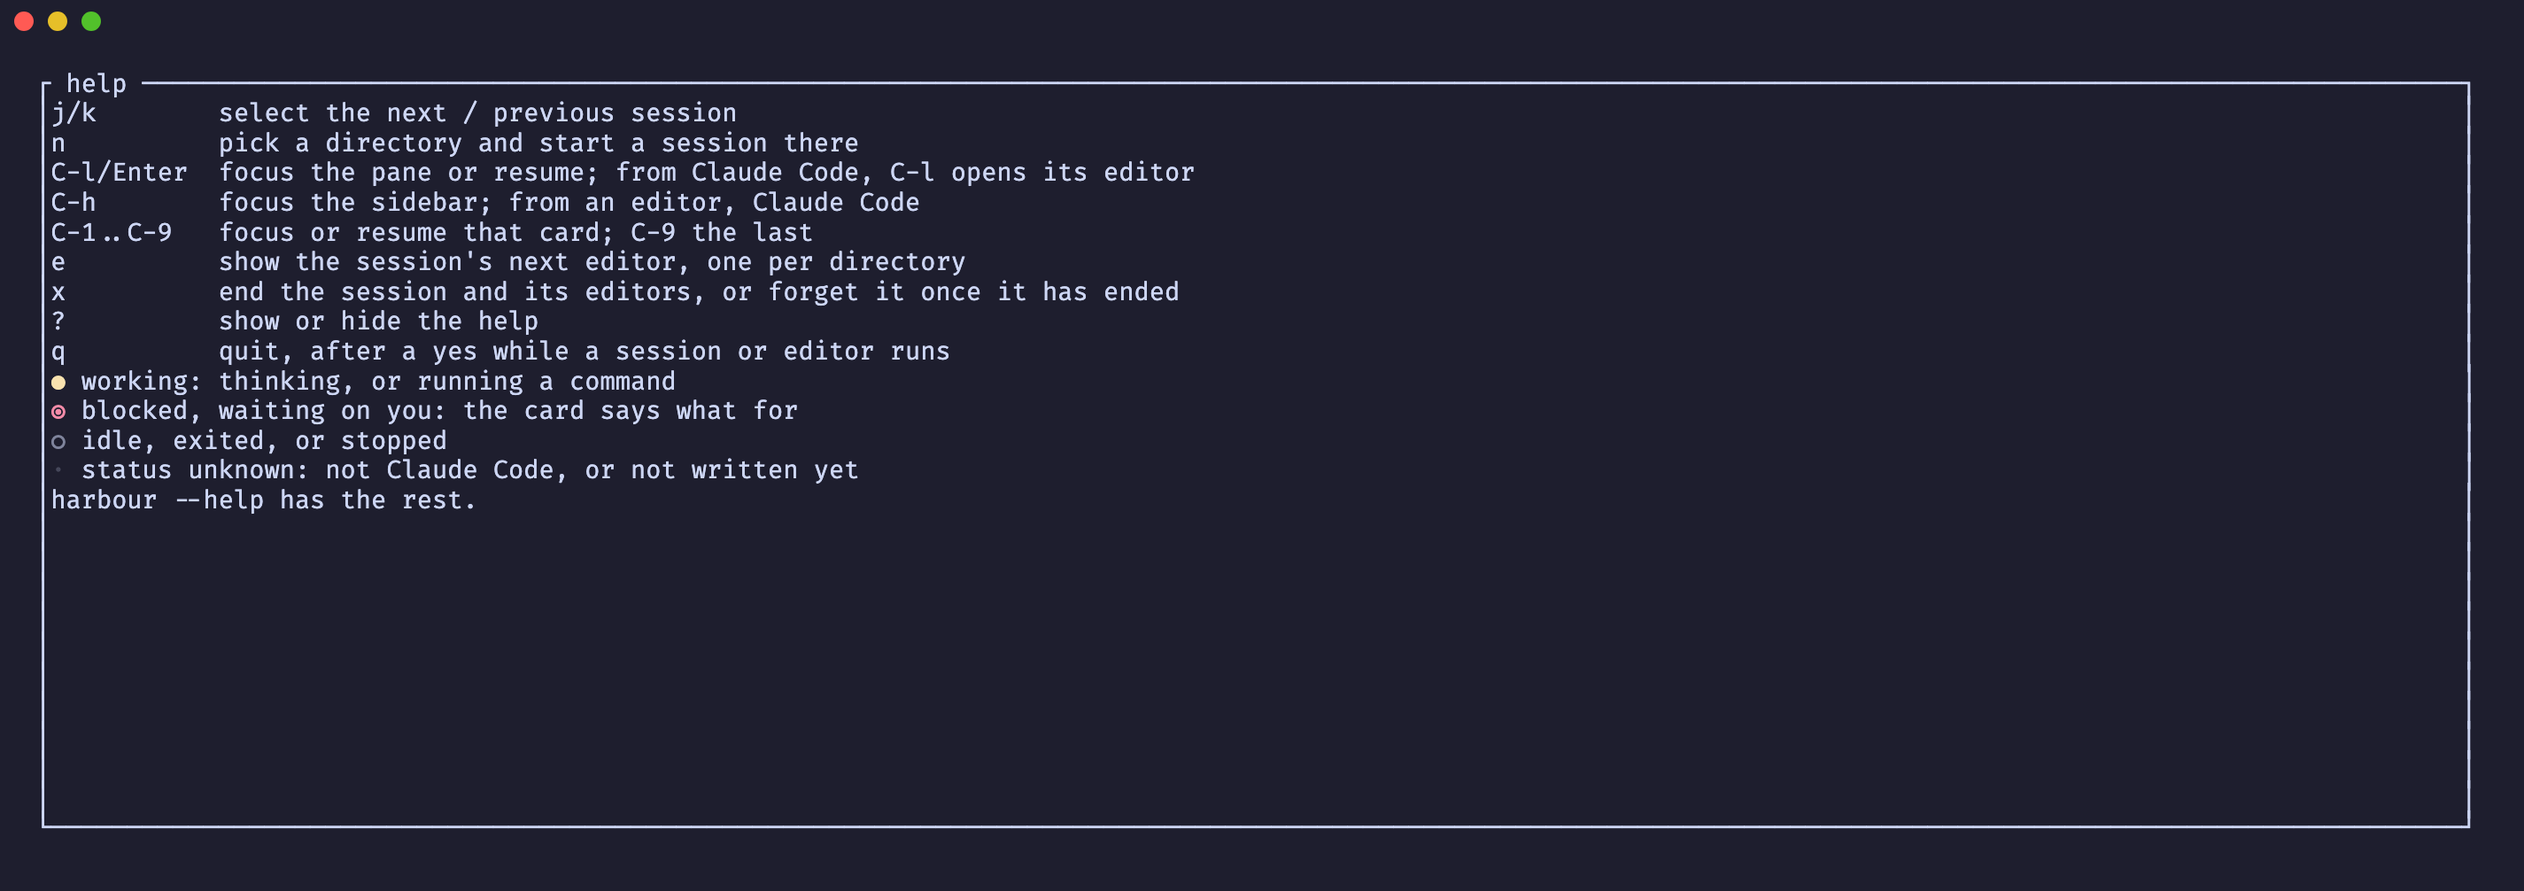
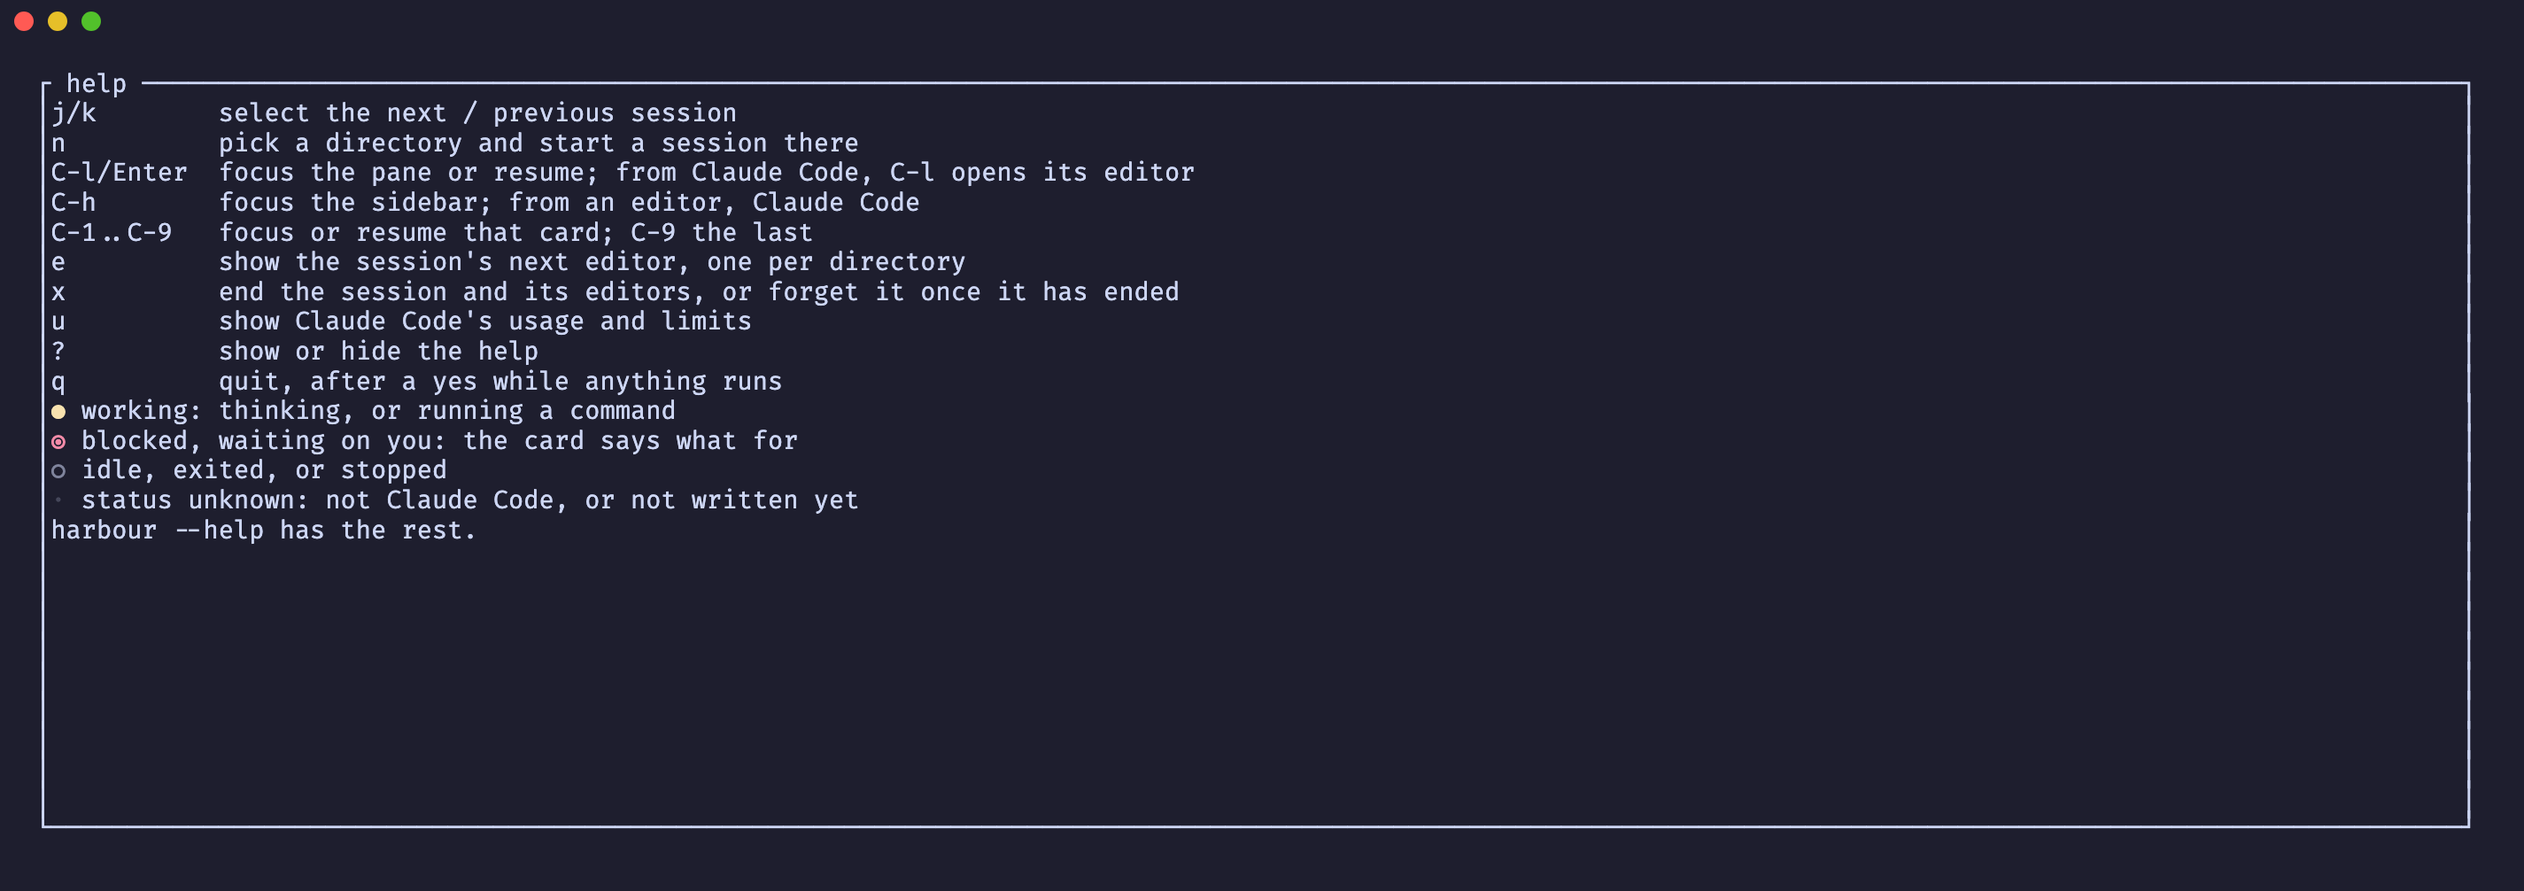
u in the help view, the README and the demo, with its screenshot

Changed region(s): [[0.0, 0.339, 0.3747, 0.6163]]

diff --git a/src/demo.rs b/src/demo.rs
@@ -62,6 +62,15 @@ pub fn editor() -> Program {
 const UNKNOWN: &str = r#"printf 'acme shell in ~/%s\n' "${PWD##*/}"
 exec sleep 86400"#;
 
+const USAGE: &str = r#"printf 'Your usage is billed to the acme team plan.\n\n'
+printf 'Current session: 12%% used · resets 3:40pm\n'
+printf 'Current week (all models): 31%% used · resets Mon 9:00am\n'
+printf 'Current week (acme-large): 18%% used · resets Mon 9:00am\n\n'
+printf '\033[1mWhat'"'"'s contributing to your usage?\033[0m\n\n'
+printf '  Last 5 hours: 84 requests across 4 sessions\n'
+printf '  Top skills: tdd (21), review (9)\n'
+printf '  Subagents: 7 runs, most of them Explore\n'"#;
+
 pub fn fresh() -> Vec<String> {
     script(WORKING)
 }
@@ -148,6 +157,10 @@ pub fn checkout(registry: &Path, name: &str, branch: &str) -> PathBuf {
     let _ = fs::create_dir_all(&git)
         .and_then(|()| fs::write(git.join("HEAD"), format!("ref: refs/heads/{branch}\n")));
     directory
+}
+
+pub fn usage() -> Vec<String> {
+    script(USAGE)
 }
 
 pub fn failed() -> Vec<String> {

diff --git a/tests/app/help.rs b/tests/app/help.rs
@@ -107,13 +107,27 @@ fn the_whole_help_shows_on_a_20_row_terminal() {
 }
 
 #[test]
-fn the_help_leaves_four_rows_for_new_keys_on_a_20_row_terminal() {
+fn the_help_leaves_three_rows_for_new_keys_on_a_20_row_terminal() {
     let mut screen = Screen::new(reading_agent());
 
     screen.press('?');
 
     let shown = screen.draw();
-    assert_eq!(spare_rows(&shown), 4, "{shown}");
+    assert_eq!(spare_rows(&shown), 3, "{shown}");
+}
+
+#[test]
+fn question_mark_shows_the_usage_key_on_one_row_beside_the_narrowest_sidebar() {
+    let mut screen = Screen::new(reading_agent());
+    screen.resize(60, 20);
+
+    screen.press('?');
+
+    let shown = screen.draw();
+    assert!(
+        shown.contains("u          show Claude Code's usage and limits"),
+        "{shown}"
+    );
 }
 
 #[test]

diff --git a/tests/e2e/editor.rs b/tests/e2e/editor.rs
@@ -221,6 +221,24 @@ fn c_l_in_the_demo_opens_a_made_up_editor() {
     assert!(screen.contains("claude | nvim: "), "{screen}");
 }
 
+#[test]
+#[ignore]
+fn u_in_the_demo_shows_a_made_up_usage_report() {
+    let home = tempfile::tempdir().unwrap();
+    let server = Server::start("demo-usage", 160, 26);
+    server.run(home.path(), &[], &["--demo"]);
+    server.wait_for_screen("acme agent");
+
+    server.send_keys(&["u"]);
+
+    let screen = server.wait_for_screen("Current session: 12% used");
+    assert!(screen.contains(" usage "), "{screen}");
+    assert!(
+        screen.contains("Current week (all models): 31% used"),
+        "{screen}"
+    );
+}
+
 fn harbours_tmux(server: &Server) -> (String, String) {
     let output = server
         .tmux(&[

diff --git a/src/help.rs b/src/help.rs
@@ -12,8 +12,9 @@ pub const KEYS: &[(&str, &str)] = &[
         "x",
         "end the session and its editors, or forget it once it has ended",
     ),
+    ("u", "show Claude Code's usage and limits"),
     ("?", "show or hide the help"),
-    ("q", "quit, after a yes while a session or editor runs"),
+    ("q", "quit, after a yes while anything runs"),
 ];
 
 pub const REST: &str = "harbour --help has the rest.";

diff --git a/src/app/mod.rs b/src/app/mod.rs
@@ -267,6 +267,7 @@ impl App {
             .with_transcripts(registry.join("projects"))
             .with_picker(demo::picker())
             .with_editor(demo::editor())
+            .with_usage(demo::usage())
             .with_memory(demo::stopped(&registry));
         app.start_with(&demo::working(&registry));
         app.start_with(&demo::blocked(&registry));

diff --git a/tests/dead_code.rs b/tests/dead_code.rs
@@ -10,7 +10,6 @@ const SEAMS: &[&str] = &[
     "sending",
     "neovim",
     "path",
-    "with_usage",
 ];
 
 const KINDS: &[&str] = &["fn", "struct", "enum", "const", "static", "trait", "type"];

diff --git a/AGENTS.md b/AGENTS.md
@@ -56,6 +56,7 @@ src/app/handoff.rs            which session holds a file `harbour edit` names (a
 src/app/logging.rs            what the app writes to the log: start and quit, a bound key by name (a key or paste forwarded only as `input to=<where> bytes=<n>`, the bytes sent, never its text; an unbound key the sidebar does not forward as `key name=other`), focus, selection, refusals, each session's and editor's start and exit, every `harbour edit` request and Neovim call, a frame of 100 ms or more, and the panics a session contained; nothing when the log is off
 src/app/jump.rs               `jump`: Ctrl-1 to Ctrl-8 select the card at that position and Ctrl-9 the last, from the sidebar or a pane (a session never gets them), then focus its pane or resume it as Enter does; nothing beyond the last card, nothing while a question, the help view or the picker is shown; they arrive only as extended keys, so a terminal without them sends what it sent before
 src/app/remember.rs           what the app does with remembered sessions: recalls them once as stopped cards, at most 100 by position, from one listing of every projects folder (a card whose transcript is gone is left out, its file forgotten once it is 30 days old), says on line 2 and in the pane why one cannot resume (`directory gone`, `open elsewhere` while a live pid's registry file or another harbour's reservation names its id), resumes one with `<command> --resume <id>` in its directory after checking both again and reserving the id for as long as it runs, keeps each session's id, directory, title and position once its transcript exists (again when its file went missing, once more when it exits and at quit), merges a stopped card into the session that resumed its conversation, forgets on `x` (never a file a session open elsewhere owns), clears its `gone` and `open elsewhere` messages on a new selection, the next attempt or once the card can resume, and adds `Conversations come back stopped.` to the quit question
+src/app/usage.rs              `u`: a popup, 80 by 30 or the terminal when smaller, running `<claude> -p --no-session-persistence /usage` (the session command's program when its file name is `claude`, its arguments dropped, else a refusal on the message line) in the selected session's directory, else harbour's, on a 200-row PTY so it shows the start of the report; `loading…` until it prints, `printed nothing`, and `exit <code>` in its title; every key, paste and mouse event goes to it while open, Esc and `q` close it and end its process; never a card, never remembered
 src/app/split.rs              how the sidebar and the pane share the terminal: two columns, from 60 columns, the sidebar a third or the configured width cut to half, the pane the rest; below that one side at a time, the pane while it has focus, else the sidebar
 src/handoff.rs                `harbour edit <file>` and its listener: the file made absolute (its folder resolved when the file does not exist yet, a dangling symlink followed to where it points, 4096 bytes at most), every harbour asked over a socket in a private (0700) `$XDG_STATE_HOME/harbour/edit/`, else `~/.local/state/harbour/edit/`, which of its sessions holds it, how deep its root lies, whether it is selected and when it was last used, and the first by that order told to open it; the listener binds `<pid>-<n>.sock` (0600), removes it when dropped, binds again within 5 s when it is gone, removes the sockets no process listens on, and, on a thread of its own that sleeps in `poll` until a connection, its check or harbour's exit wakes it, accepts, checks the peer and reads each request on a thread of its own (at most 16 in flight, the rest closed at once), keeping only a request from its own user that arrives within 100 ms and has not expired; it resolves the path again itself, answers `none` or a refusal when it does not resolve, and hands the app the rest over a channel with a deadline of its expiry, 5 s at most
 src/memory.rs                 the remembered sessions on disk: one `<sessionId>.json` per conversation under `$XDG_STATE_HOME/harbour/sessions/<configuration>/`, else `~/.local/state/harbour/sessions/<configuration>/`, one folder per Claude Code configuration (a stable hash of its resolved `projects/` path, symlinks followed), so a harbour never shows, resumes or prunes another configuration's conversations (0700 folder, 0600 files, written through a staged file and a rename, a staged file older than a minute swept); the directory stored as text, or as its bytes when it is not UTF-8; no file names another, so none deletes another; read leniently: a regular file only, never through a symlink, at most 64 KiB, `version` 1, an id of Claude Code's shape (a lowercase 8-4-4-4-12 hex UUID, so `--resume <id>` never reads it as an option) matching its name, an absolute directory, anything else skipped and left on disk, a file from a newer version never overwritten or removed; `reserve`: a private `<id>.<unique>.lock` held with a non-blocking lock by every running session with a remembered id (taken when the id is first known, the new one taken before the old one is released when it changes, tried again at each read while held elsewhere) and kept only while that file is still at its path, retried once when held, dead ones swept
@@ -65,7 +66,7 @@ src/nvim.rs                   `mode`, `eval` and `edit`: one msgpack-RPC `nvim_g
 src/tabs.rs                   `strip`, a pure function: the pane border's `claude | <editor>: <directory>`, fitted by display width (the directory loses its start first, then the editor's name; nothing shows once not one column of the editor's name fits); `iconed`, the same with `nerd_font` on: the glyph of `src/icons.rs` and a space before `claude`, and before the editor's name when it is Neovim, the directory going first, then both glyphs together, then the rest as `strip` fits it, so a glyph never shows without its whole name
 src/icons.rs                  the Nerd Font glyphs harbour draws with `nerd_font` on: `md-creation` (U+F0674) for Claude Code, `custom-neovim` (U+E6AE) for Neovim, `oct-repo` (U+F401), `oct-git_branch` (U+F418), `oct-git_pull_request` (U+F407) and `cod-sparkle` (U+EC10) for a card's repository, branch, pull request and subagents, each one column wide
 src/session.rs                a session: a command in a PTY, refused as `Not a directory: <path>` when its directory is not one, started without `TMUX` and `TMUX_PANE` (a Claude Code session and the picker belong to no tmux pane) unless started as an editor, its output parsed into a screen that renders as a widget painting no cursor of its own, its terminal queries answered, what an editor's or the picker's program asked for in keys (`keyboard`, its kitty query answered; a Claude Code session's requests ignored and its kitty query left unanswered, so it always gets the legacy keys; forgotten at a terminal reset, `ESC c`, and when the program exits), the cursor shape its program last asked for (`ESC [ <n> SP q`, 0 to 6, a larger value ignored) and where its cursor lies in the area it is drawn in (none when hidden or outside it, a cursor waiting after the last column on that column), its exit status, its screen never under 2 rows or 2 columns (vt100 panics below that); every call into vt100 contained, so a panic gives that session a fresh screen with the modes, the keys and the cursor shape its program had turned on and a repaint instead of taking harbour down, and the panic hook stays silent for it; writes go through a writer thread so a child that does not read never blocks the interface; ending it (or dropping it) hangs up its whole process group, then kills it, only while the child is unreaped; quitting hangs up every session first and waits once
-src/demo.rs                   the made-up sessions of `--demo` and its picker (fzf over made-up directories, without harbour's directory), and its `nvim` (a script printing a made-up file, no socket): `acme/*` scripts, never real data; the registry they write in the temp dir, with a made-up checkout for each session to start in, removed when dropped
+src/demo.rs                   the made-up sessions of `--demo` and its picker (fzf over made-up directories, without harbour's directory), and its `nvim` (a script printing a made-up file, no socket), and its usage report for `u`: `acme/*` scripts, never real data; the registry they write in the temp dir, with a made-up checkout for each session to start in, removed when dropped
 src/registry.rs               Claude Code's session file for a pid (`<CLAUDE_CONFIG_DIR or ~/.claude>/sessions/<pid>.json`): its status, when it last changed, what it waits for, its `sessionId` and its `cwd` (the directory C-l opens in only until a transcript named one), read leniently, ignored when written well before the session started; and the ids open anywhere, from the regular files (at most 64 KiB) whose pid is alive
 src/state.rs                  a session's state from its exit and its file: the dot and its colour, the title counts above zero fitted to the sidebar's width (none and too narrow for the word: no title, so the border stays whole), and the help legend
 src/repo.rs                   a session's repository and branch read from git's own small files (`.git`, `gitdir`, `commondir`, `HEAD`) as bytes, never by running git: a repository, a worktree (the main repository's name), a submodule, a bare repository and its worktrees (without `.git`), a detached `HEAD`, the nearest repository above a deleted folder, else the folder's name; `root` and `place` share one walk up that skips the home directory itself (a dotfiles `.git` there), compared by device and inode so a symlinked home still matches
@@ -109,7 +110,7 @@ scripts/homebrew-formula.sh   prints the tap formula for a released version
 scripts/formula-version.sh    the `tap` job's decision; never a version below the formula's
 scripts/stable-version.sh     the `stable-build` and `stable` jobs' decision, asked by both: the release the `stable` branch moves to, never below the version it holds
 scripts/sweep-report.sh       `[<first phase>]`: the sweep's data from `plans/`, as Markdown; counts and groups, judges nothing
-scripts/screenshots.sh        renders docs/details.png from `harbour --demo` and docs/help.png from `harbour --help`, plus one `shoot` per extra view (keys, pane, question, quit, ended (the demo with its blocked session ended, a count gone from the title), editor, narrow, picker, accent (the interface without `--demo`, through a config file written into the scratch `HOME` and removed after it), icons (the same with `nerd_font = true` and an editor script named `nvim`, its session a script that writes a registry file and a transcript naming a pull request and two running subagents in a scratch repository on a branch, the border's and the card's glyphs shown); truecolor.py converts ANSI)
+scripts/screenshots.sh        renders docs/details.png from `harbour --demo` and docs/help.png from `harbour --help`, plus one `shoot` per extra view (keys, pane, question, quit, ended (the demo with its blocked session ended, a count gone from the title), editor, usage, narrow, picker, accent (the interface without `--demo`, through a config file written into the scratch `HOME` and removed after it), icons (the same with `nerd_font = true` and an editor script named `nvim`, its session a script that writes a registry file and a transcript naming a pull request and two running subagents in a scratch repository on a branch, the border's and the card's glyphs shown); truecolor.py converts ANSI)
 scripts/sweep-issue.sh        the `issue` job of `sweep.yml`: opens "Sweep due before phase N" with the report once the next phase is a multiple of 5, never twice
 docs/                         the screenshots `scripts/screenshots.sh` writes (see "Documentation rule")
 changes/                      one fragment per pull request that feeds the binary (`kind:` and the changelog bullets); add-only, see Releasing
@@ -124,6 +125,7 @@ tests/           outside-in: `tests/cli.rs` runs the real binary;
                  `tests/edit.rs` runs `harbour edit` against listeners of `tests/handoff.rs`'s kind, which a test answers itself; `tests/app/handoff.rs` hands the app requests and stands in a socket for Neovim; `tests/app/nearest.rs` covers which holder gets the file and what moves its last use; `tests/e2e/edit.rs` runs `harbour edit` against harbour, and `tests/e2e/neovim.rs` holds four smoke tests against a real clean Neovim; `tests/app/real_neovim.rs` runs that Neovim's TUI in a harbour session and checks `mode`, `eval`, `edit`, `changes`, `wants_ctrl_h` and `open` against it; `tests/idle.rs` (Linux only) counts the listener thread's wake-ups while idle;
                  `tests/app/jumping.rs` covers Ctrl-1 to Ctrl-9 in process, `tests/e2e/keys.rs` what tmux sends for them with extended keys on and off;
                  `tests/app/moving.rs` hands the app a recording move, never the real one; `tests/e2e/moving.rs` reads `#{pane_current_path}` of a harbour started with `Server::exec`;
+                 `tests/app/usage.rs` covers the usage popup of `u` (what reaches it, what it leaves behind, its program), `tests/app/usage_states.rs` what it shows (loading, nothing, an exit, its size and directory);
                  `tests/tabs.rs` is the table of how the pane border's names fit a width, with and without icons;
                  `tests/text.rs` covers measuring, cutting, wrapping and cleaning text, `tests/card.rs` a card's lines, `tests/repo.rs` reading a repository and branch from scratch `.git` layouts, `tests/transcript.rs` reading a transcript, `tests/memory/` every file state of the remembered sessions (`reserving.rs` the locks and the sweep, `places.rs` the directory bytes and the configurations);
                  `tests/keys.rs` is the table of the bytes each key sends, `tests/input.rs` the table of what each sequence reads as, `tests/mouse.rs` the table of what a session receives for each mouse event, mode, gesture and modifier;

diff --git a/tests/AGENTS.md b/tests/AGENTS.md
@@ -21,7 +21,10 @@ these suites come from; the ones about sessions were hit in harbour.
   `tests/fixtures/registered-agent.sh` or `tests/fixtures/titled-agent.sh` (which write a registry
   file, and the second a transcript, so only under a scratch `HOME`) or `tests/fixtures/shaped-agent.sh`;
   in-process tests hand `App::new` or `Session::start` a `/bin/sh -c` script; the one executable
-  a test writes is a picker whose interpreter is missing.
+  a test writes is a picker whose interpreter is missing. The usage popup of `u` runs the
+  session command's program only when its file name is `claude`: `tests/app/usage.rs` links
+  `tests/fixtures/args-agent.sh` as `claude` in a scratch directory, and every other test hands
+  the report to `App::with_usage` as a script.
 
 - **No test opens the real fzf or reads the real zoxide database.** `n` runs fzf over
   `zoxide query --list` unless `HARBOUR_DIR_PICKER` names another picker, and both are on the

diff --git a/plans/phase-26-usage-popup.md b/plans/phase-26-usage-popup.md
@@ -53,6 +53,9 @@ scratch tmux server at 78 by 28:
   `CLAUDE_CONFIG_DIR`), `TMUX` and `TMUX_PANE` removed like the picker's.
 - **Its PTY is 200 rows by the popup's inner width** and never resized in rows, so a short
   popup shows the top of the report rather than its end.
+- **The help row.** `u  show Claude Code's usage and limits` joins `KEYS` before `?`. With it
+  the help view no longer fit 20 rows beside the narrowest sidebar, so the `q` row is shortened
+  to `quit, after a yes while anything runs`; the headroom test drops from 4 rows to 3.
 - The log names `u` when harbour acts on it and `to=usage` with a byte count for what the popup
   receives; it never records what the popup shows.
 

diff --git a/README.md b/README.md
@@ -47,8 +47,9 @@ harbour config      # the settings file's path and where each setting comes from
 | `C-1..C-9` | focus or resume that card; C-9 the last |
 | `e` | show the session's next editor, one per directory |
 | `x` | end the session and its editors, or forget it once it has ended |
+| `u` | show Claude Code's usage and limits |
 | `?` | show or hide the help |
-| `q` | quit, after a yes while a session or editor runs |
+| `q` | quit, after a yes while anything runs |
 
 `n` picks the directory with fzf, from the directory harbour was opened in and the ones
 zoxide ranks; `HARBOUR_DIR_PICKER` names another picker. Without fzf, sessions start in the

diff --git a/changes/phase-26-usage-popup.md b/changes/phase-26-usage-popup.md
@@ -1,0 +1,3 @@
+kind: feat
+
+- `u` in the sidebar shows Claude Code's usage and limits in a popup; Esc or `q` closes it.
